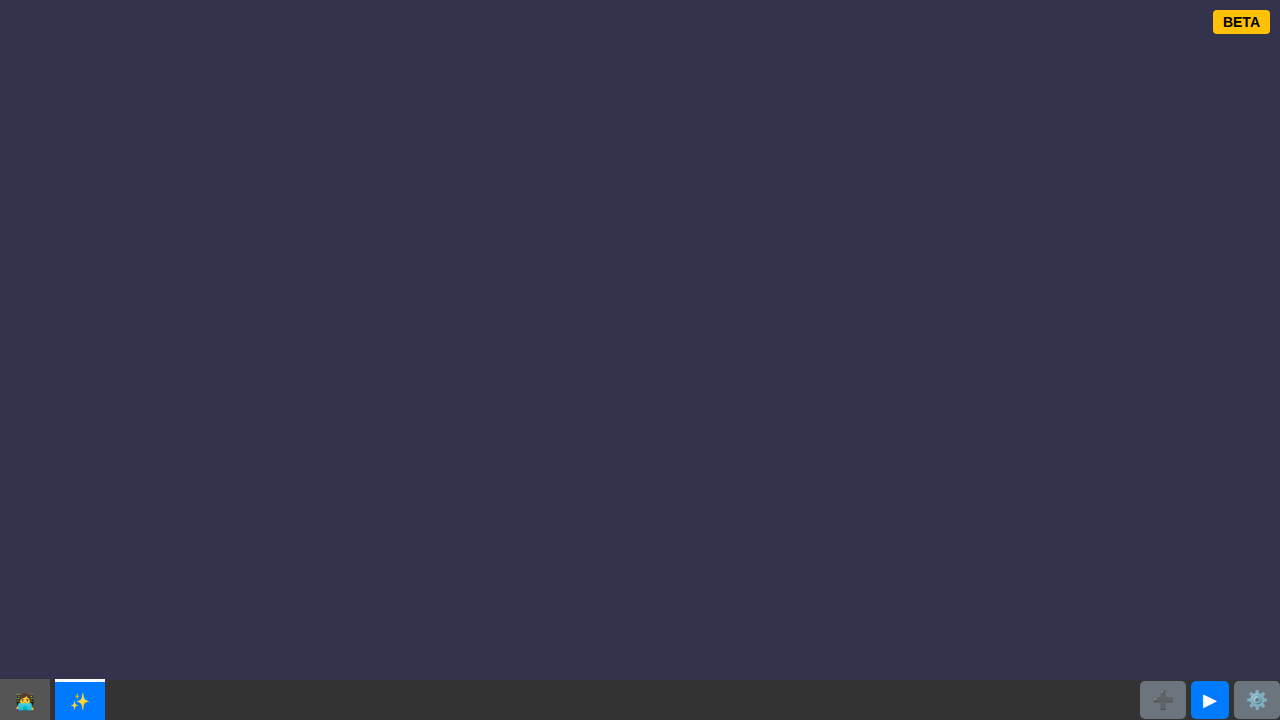
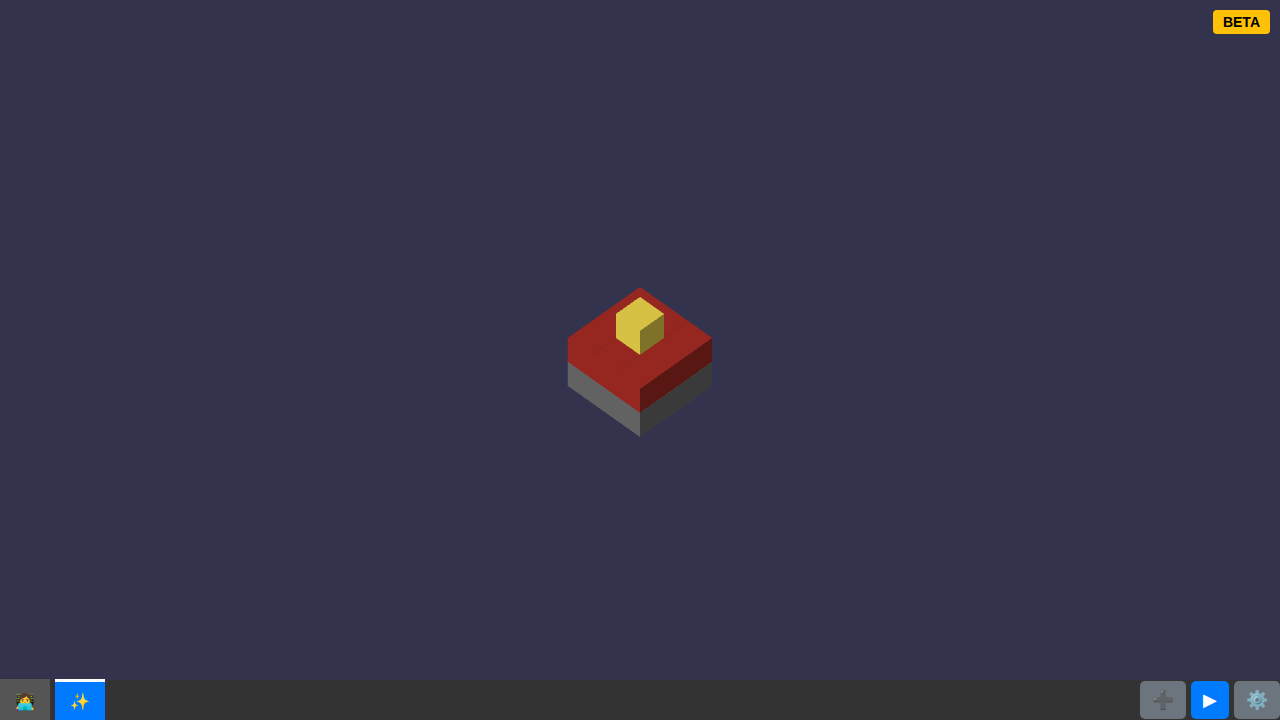
feat: integrate Bedrock .mcstructure model viewer workspace
- Add Bedrock .mcstructure NBT parser and renderer to BabylonSceneManager.importModel.
- Lazy load NBTify ESM library dynamically at runtime.
- Create bedrock-model-viewer.md workspace with Blockly starter template.
- Implement comprehensive Playwright test verifying voxel structure rendering and color mappings.

Changed region(s): [[0.4375, 0.3972, 0.5625, 0.6111]]

diff --git a/_layouts/default.html b/_layouts/default.html
@@ -704,7 +704,7 @@
         function isValidAssetURL(url) {
             if (typeof url !== 'string') return false;
             const normalized = url.trim().toLowerCase();
-            if (normalized.startsWith('https://') || normalized.startsWith('blob:') || normalized.startsWith('data:')) {
+            if (normalized.startsWith('https://') || normalized.startsWith('blob:') || normalized.startsWith('data:') || normalized.startsWith('/') || normalized.startsWith('./') || normalized.startsWith('assets/')) {
                 return true;
             }
             console.error('Invalid URL:', url, 'Only HTTPS or blob URLs are allowed for assets.');
@@ -714,6 +714,7 @@
         function getProxiedUrl(url) {
             if (!url || typeof url !== 'string') return url;
             if (url.startsWith('blob:') || url.startsWith('data:')) return url;
+            if (url.startsWith('/') || url.startsWith('./') || url.startsWith('assets/')) return url;
             if (url.startsWith('https://proxy.functions.io/?url=')) return url;
             return `https://proxy.functions.io/?url=${encodeURIComponent(url)}`;
         }

diff --git a/_workspaces/bedrock-model-viewer.md b/_workspaces/bedrock-model-viewer.md
@@ -3,5 +3,5 @@ layout: "default"
 title: "Bedrock .mcstructure Viewer"
 description: "Explore and animate Minecraft Bedrock .mcstructure files using visual logic!"
 icon: "/assets/icons/gamepad-2.svg"
[2 lines of base64/hex data omitted]
 ---
